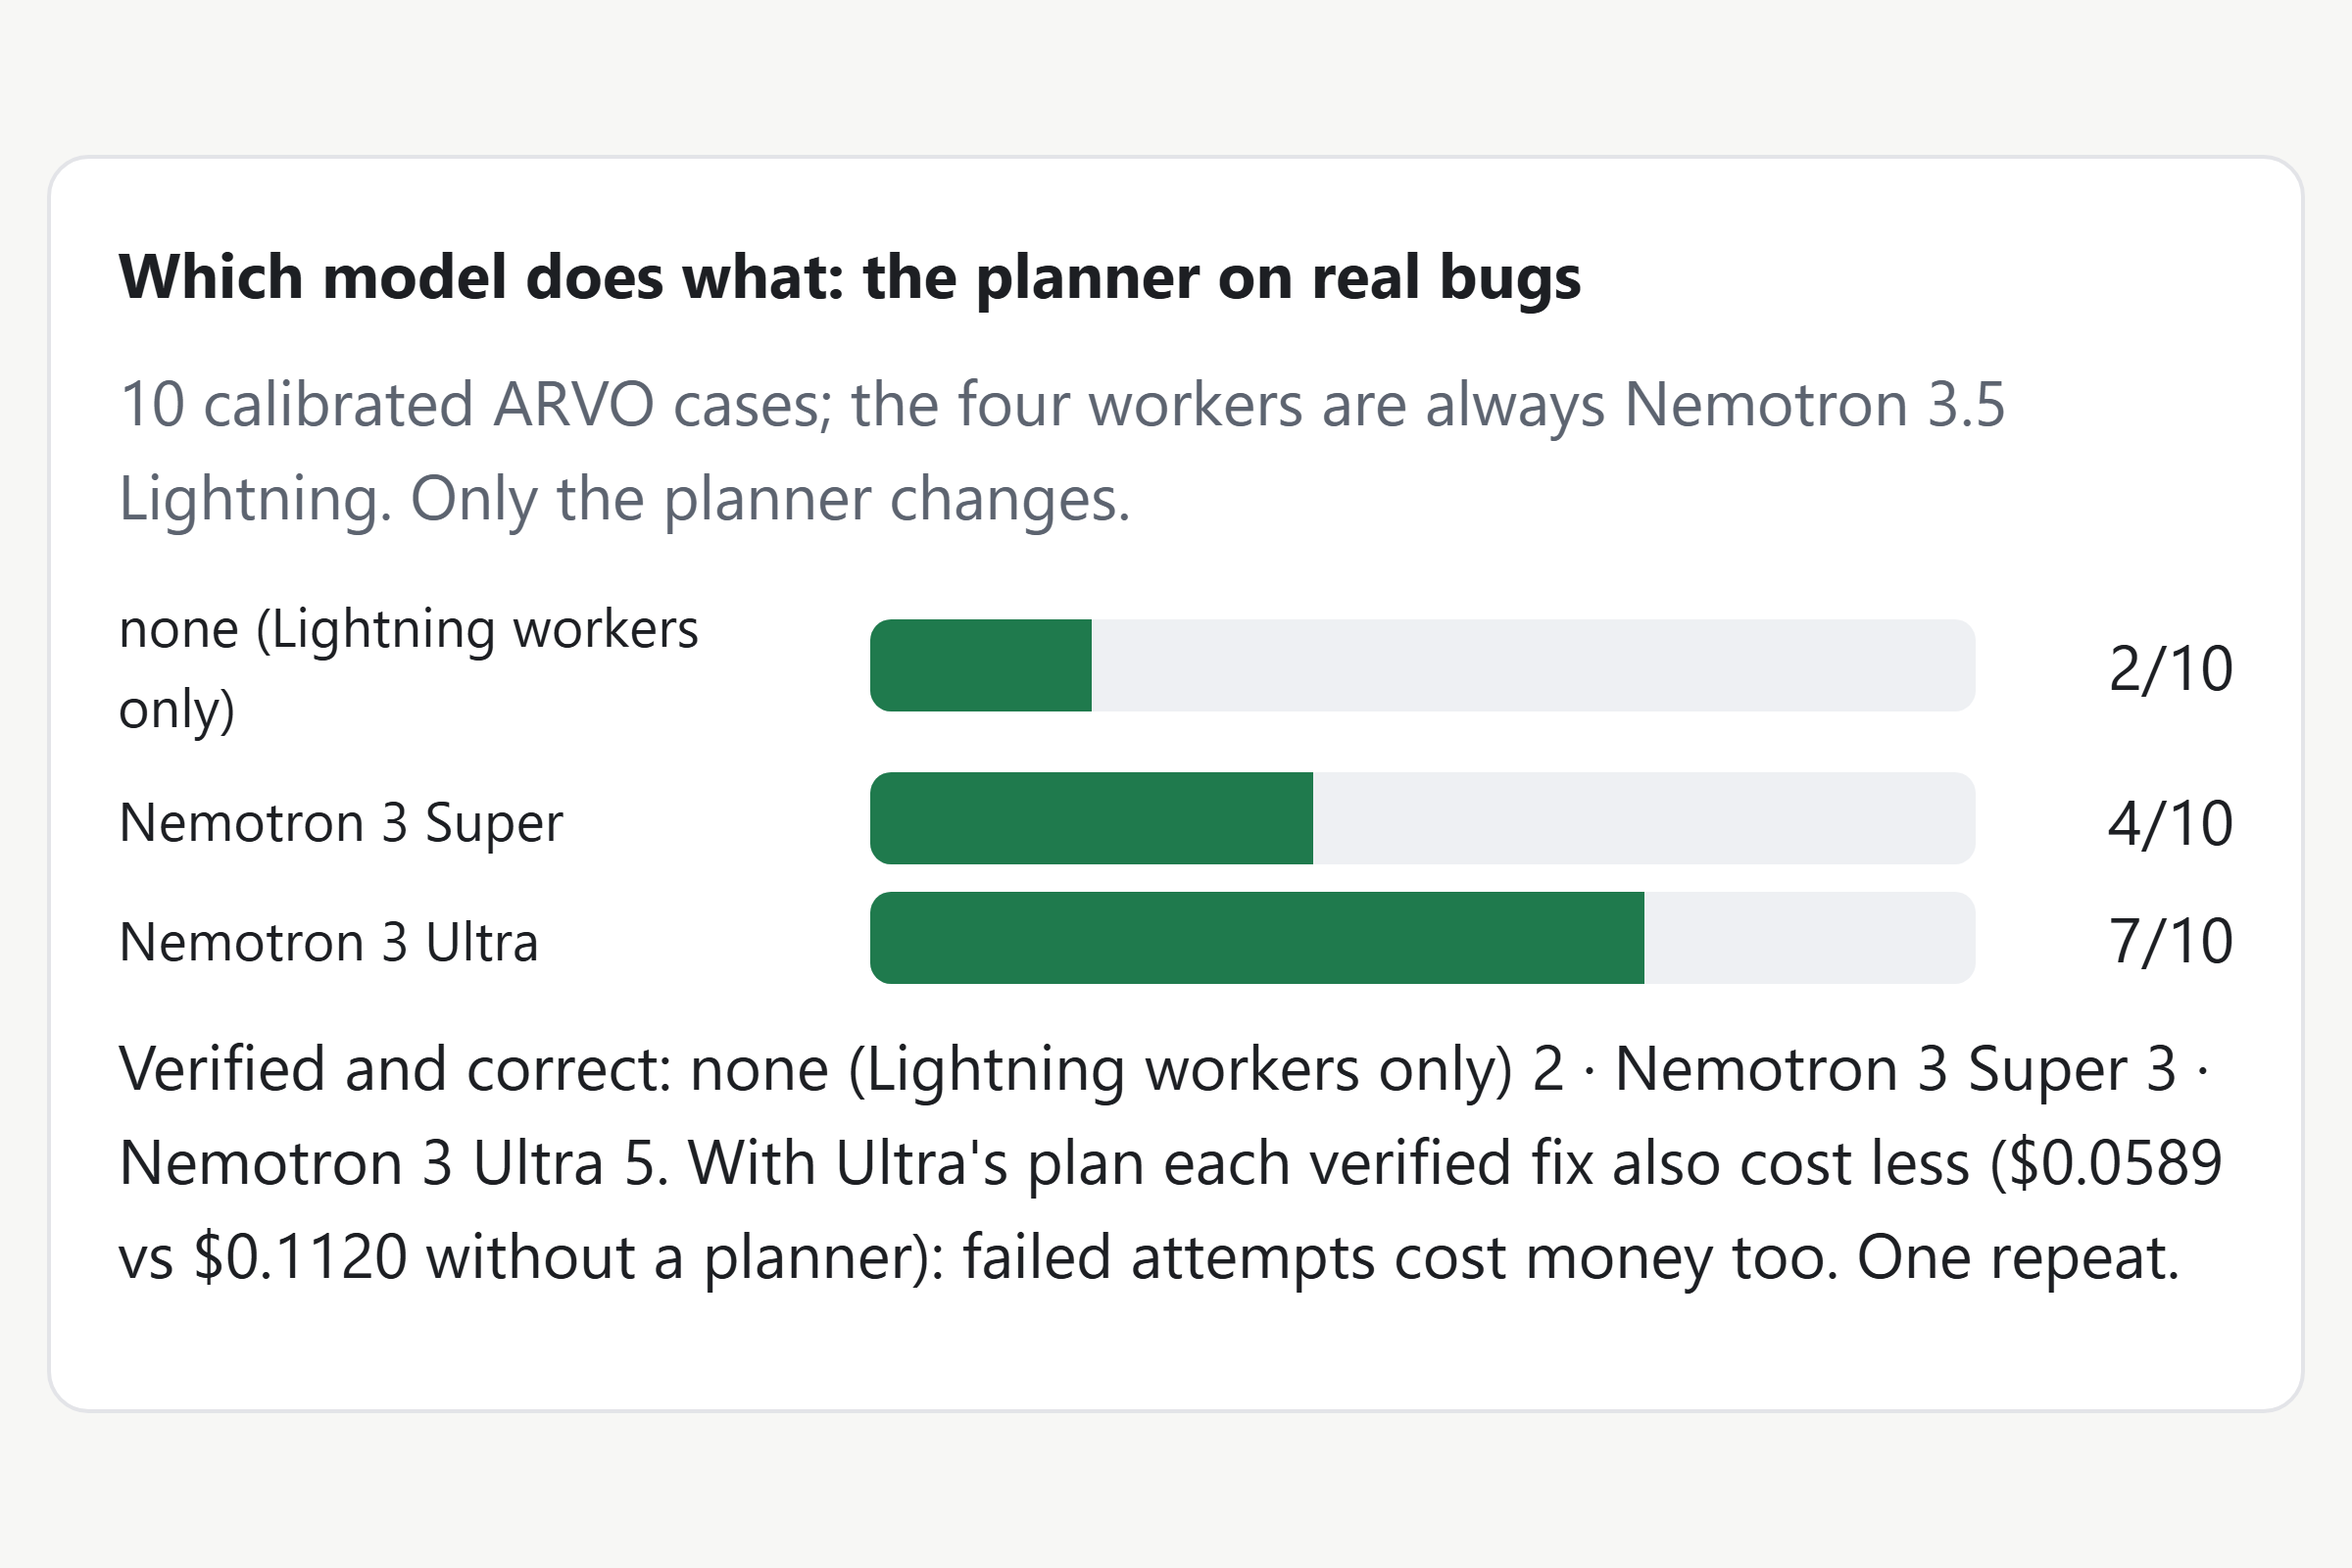
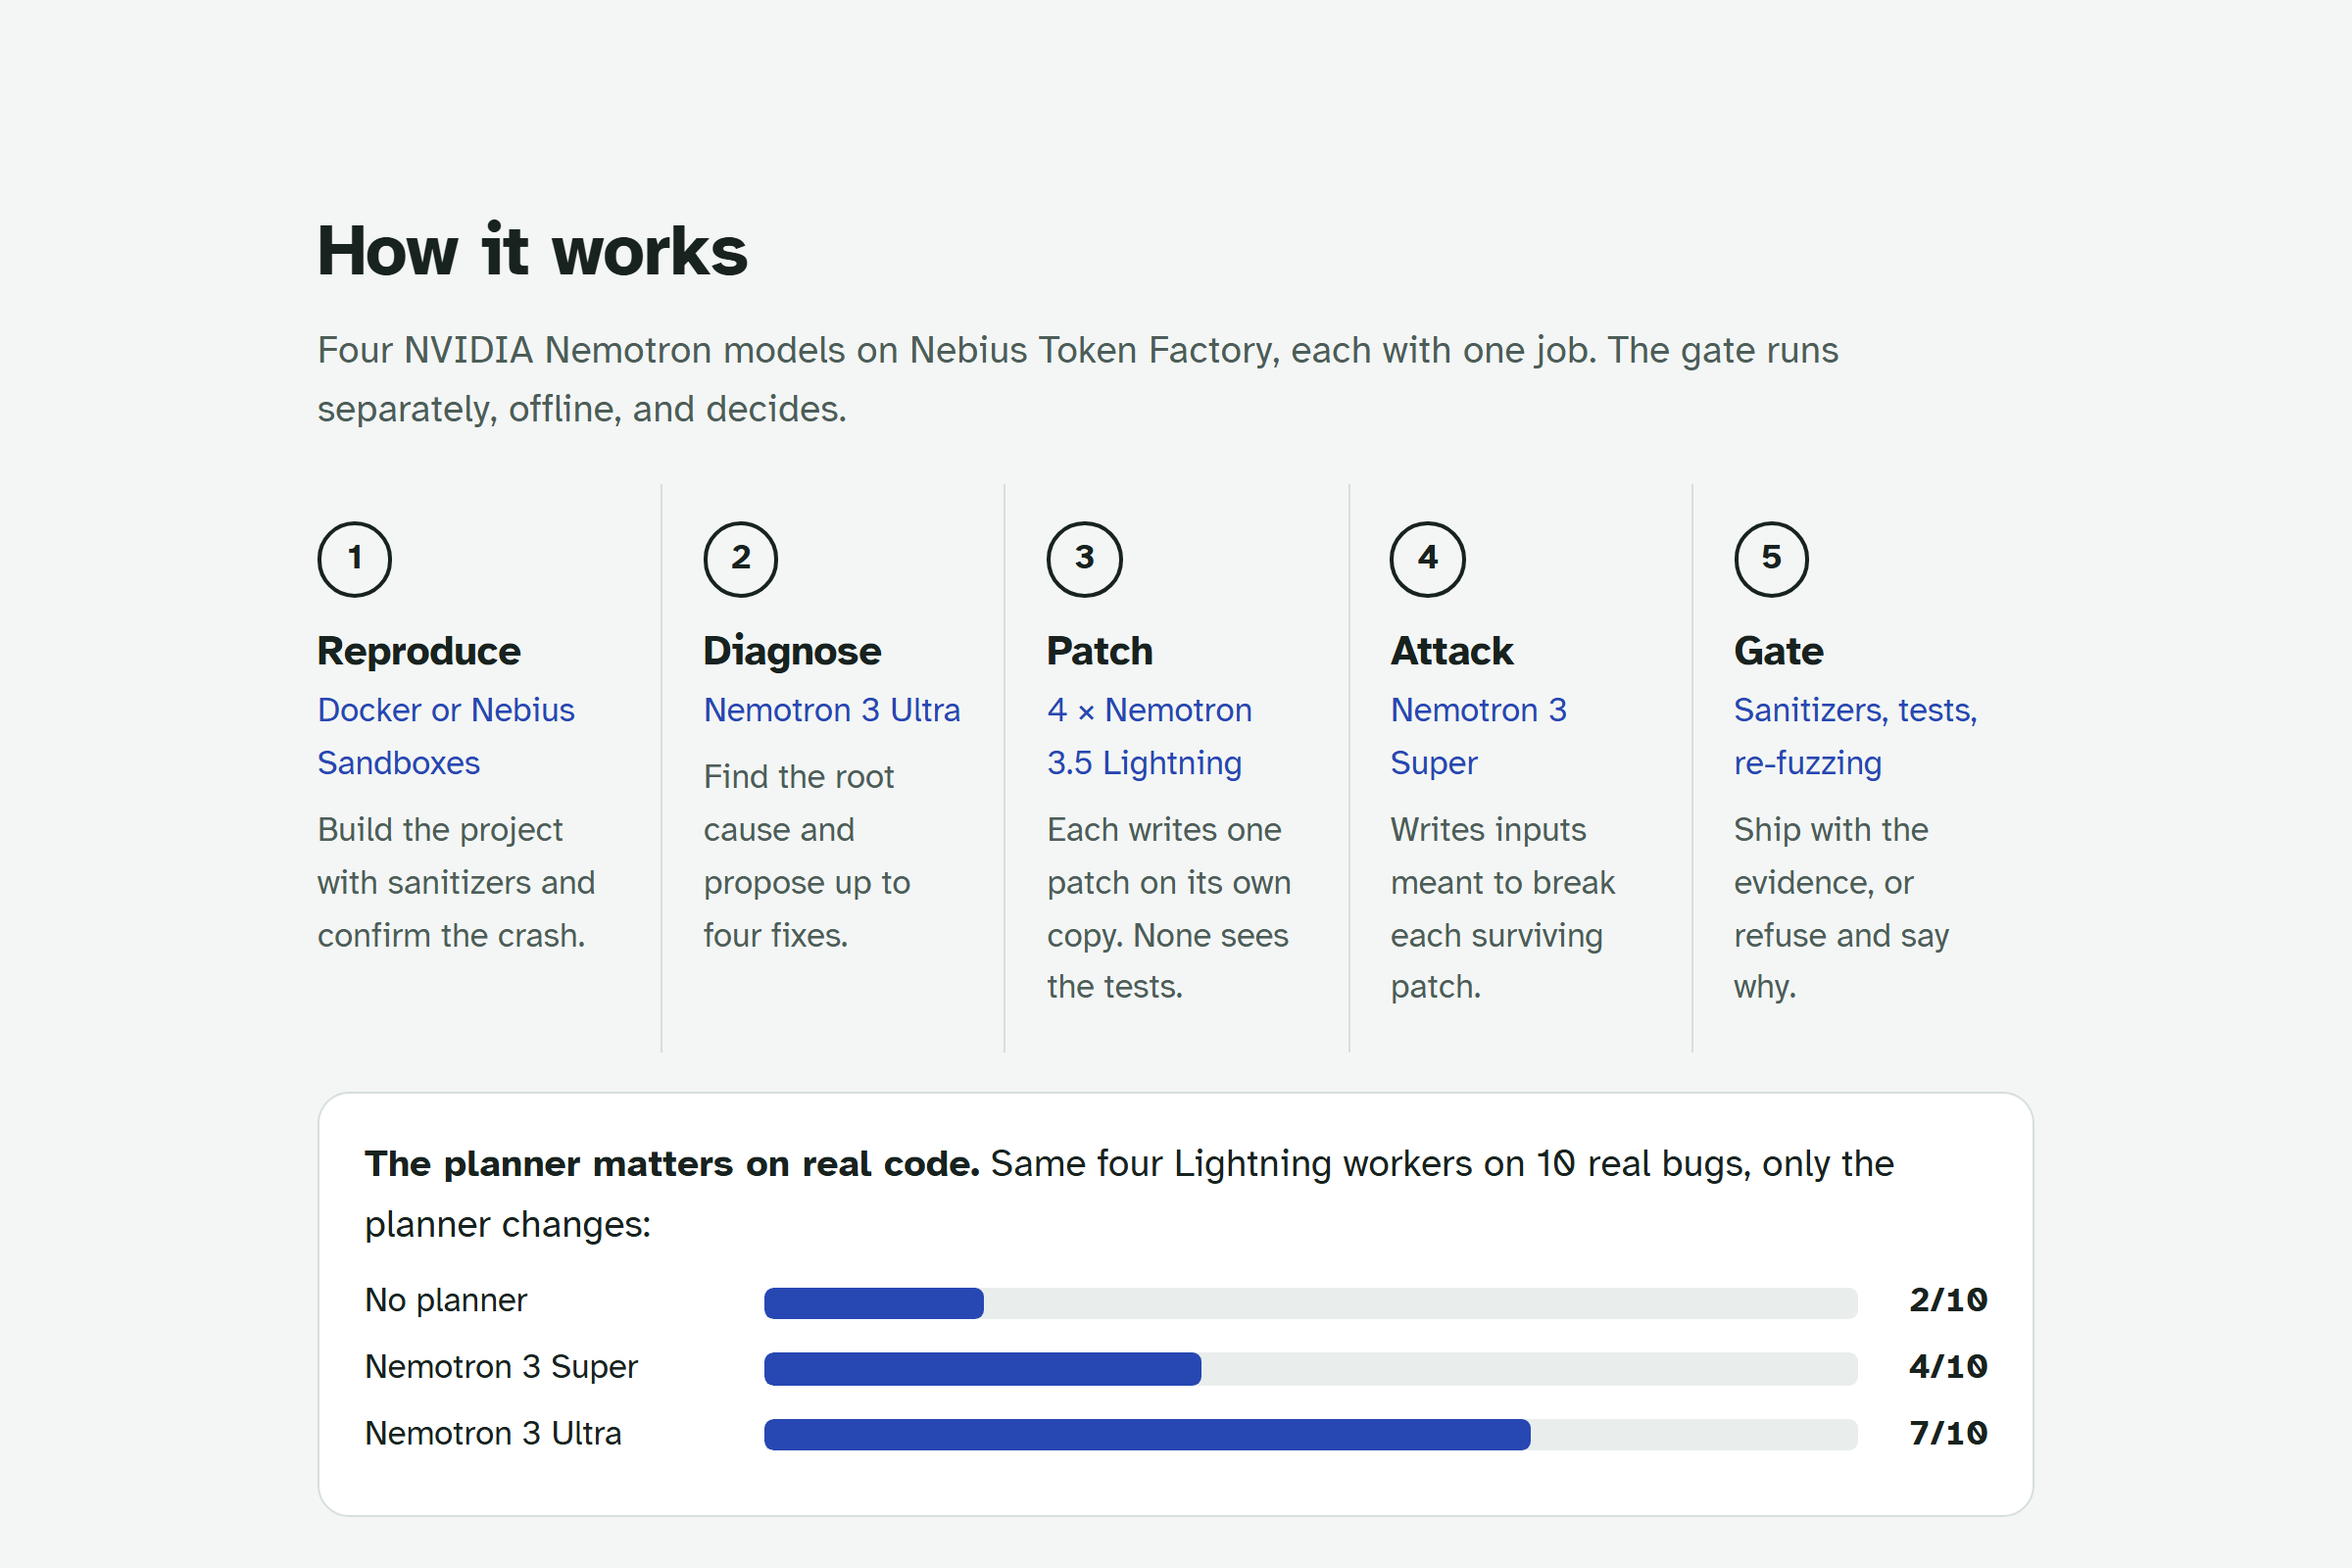
Gallery re-rendered from the new dashboard: head-to-head, 1440 and 390 px

diff --git a/docs/devpost/render_assets.py b/docs/devpost/render_assets.py
@@ -1,8 +1,8 @@
 #!/usr/bin/env python3
 """Devpost images (review #7 order 3), all 3:2 at 2x, rendered from site/ and docs/.
 
-docs/devpost/render_assets.py -> docs/devpost/{thumbnail,1_first_screen,2_jq_refusal,3_funnel,
-                                 4_planner,5_gate_matrix,6_review_findings,architecture}.png
+docs/devpost/render_assets.py -> docs/devpost/{thumbnail,1_first_screen,2_jq_refusal,3_head_to_head,
+                                 4_planner,5_gate_matrix,7_phone_390,architecture}.png
 
 Numbers on the images come from site/data (generated by scripts/readme_numbers.py), never typed.
 Needs Playwright with Chromium in the Windows venv.
@@ -35,25 +35,7 @@ ISOLATE = """([sel, width]) => {
   stage.style.zoom = Math.min(innerWidth * 0.96 / width, innerHeight * 0.96 / stage.offsetHeight);
 }"""
 
-# Image 6: the review-finding table from cases/open_bugs/REVIEW.md, as a dashboard-styled card.
-FINDINGS = r"""(rows) => {
-  const box = document.createElement('div'); box.id = 'findings'; box.className = 'panel';
-  const cell = (s) => s.replace(/\*\*(.+?)\*\*/g, '<b>$1</b>');
-  box.innerHTML = `<h3>Wrong fixes a human review found on open bugs: caught by a machine check?</h3>
-    <p class="muted">Every distinct verified diff, re-gated with inputs generated from the PoC (D-0078) and inputs an adversary model wrote against it (D-0079).</p>
-    <table class="matrix"><tr>${rows[0].map((h) => `<th>${h}</th>`).join('')}</tr>
-    ${rows.slice(1).map((r) => `<tr>${r.map((c) => `<td>${cell(c)}</td>`).join('')}</tr>`).join('')}</table>`;
-  document.querySelector('main').append(box);
-}"""
-
-
-def findings_rows() -> list[list[str]]:
-    text = (ROOT / "cases" / "open_bugs" / "REVIEW.md").read_text(encoding="utf-8")
-    table = text.split("## Review finding", 1)[1].split("\n\n")[2]
-    rows = [
-        [c.strip().replace("`", "") for c in ln.strip("|").split("|")] for ln in table.splitlines()
-    ]
-    return [r for r in rows if not set("".join(r)) <= set("-")]
+# Image 6 (review findings) keeps its last render (Oct 26): it is not a card on the new dashboard.
 
 
 THUMB = """async () => {
@@ -89,59 +71,34 @@ def main() -> int:
 
         def load() -> None:
             page.goto(site)
-            page.wait_for_selector("#headline .stat")
+            page.wait_for_selector("#waffle .tile")
             page.wait_for_selector("#cases button")
-            page.wait_for_timeout(400)
+            page.wait_for_timeout(500)
 
-        # First screen at a narrower viewport (bigger text), without the not-deployed note.
-        page.set_viewport_size({"width": 960, "height": 640})
+        # First screen at 1440 wide (3:2), and the phone layout at 390 (review #22).
+        page.set_viewport_size({"width": 1440, "height": 960})
         load()
-        page.evaluate(
-            "document.querySelectorAll('.muted').forEach(e => "
-            "{ if (e.textContent.includes('not deployed')) e.remove(); })"
-        )
-        page.screenshot(path=str(OUT / "1_first_screen.png"), scale="device")
+        page.screenshot(path=str(OUT / "1_first_screen.png"), scale="css")
+        page.set_viewport_size({"width": 390, "height": 844})
+        load()
+        page.screenshot(path=str(OUT / "7_phone_390.png"))
         page.set_viewport_size({"width": VW, "height": VH})
-        for name, sel, width in (("2_jq_refusal", "#refusal", 700), ("4_planner", "#planner", 540)):
+        # The story: the waffle of 78 patches and the head-to-head under it.
+        load()
+        page.evaluate(ISOLATE, [".verdicts", 760])
+        page.screenshot(path=str(OUT / "3_head_to_head.png"))
+        for name, sel, width in (("2_jq_refusal", "#refusal-sec", 700), ("4_planner", "#how", 760)):
             load()
             page.evaluate(ISOLATE, [sel, width])
             page.screenshot(path=str(OUT / f"{name}.png"))
-        load()
-        page.evaluate("document.querySelector('#funnel').closest('.panel').id = 'funnel-panel'")
-        page.evaluate(ISOLATE, ["#funnel-panel", 600])
-        page.screenshot(path=str(OUT / "3_funnel.png"))
         load()
         page.evaluate(
             "[...document.querySelectorAll('#cases button')]"
             ".find(b => b.textContent.includes('42531297')).click()"
         )
-        page.wait_for_selector("#case .matrix")
-        # The matrix with its case header above it; the advisory reviewer-notes column is dropped.
-        page.evaluate(
-            "() => { const panel = document.querySelector('#case .panel');"
-            " const box = document.createElement('div'); box.id = 'matrix'; box.className = 'panel';"
-            " box.append(panel.querySelector('.row').cloneNode(true),"
-            " panel.querySelector('p.muted').cloneNode(true),"
-            " document.querySelector('#case .matrix').closest('.scroll').cloneNode(true));"
-            " box.querySelectorAll('tr').forEach(tr => tr.lastElementChild.remove());"
-            " document.querySelector('main').append(box); }"
-        )
-        # Transposed (checks as rows, workers as columns) so it fills the 3:2 canvas.
-        page.evaluate(
-            "() => { const t = document.querySelector('#matrix table');"
-            " const rows = [...t.rows].map(r => [...r.cells]);"
-            " const out = document.createElement('table'); out.className = t.className;"
-            " rows[0].forEach((_, j) => { const tr = out.insertRow();"
-            " rows.forEach((r, i) => { const c = document.createElement(i && j ? 'td' : 'th');"
-            " c.innerHTML = r[j].innerHTML; tr.append(c); }); });"
-            " t.replaceWith(out); }"
-        )
-        page.evaluate(ISOLATE, ["#matrix", 640])
+        page.wait_for_timeout(400)
+        page.evaluate(ISOLATE, ["#case", 760])
         page.screenshot(path=str(OUT / "5_gate_matrix.png"))
-        load()
-        page.evaluate(FINDINGS, findings_rows())
-        page.evaluate(ISOLATE, ["#findings", 900])
-        page.screenshot(path=str(OUT / "6_review_findings.png"))
         load()
         page.evaluate(THUMB)
         page.wait_for_timeout(300)

diff --git a/docs/DEVPOST.md b/docs/DEVPOST.md
@@ -122,10 +122,11 @@ nvidia-nemotron, nemotron-3-ultra, nemotron-3.5-lightning, nemotron-3-super, nem
 ## Gallery images (rendered by `docs/devpost/render_assets.py`, 3:2 at 2×)
 
 - Thumbnail: `docs/devpost/thumbnail.png` ("15/27 real bugs verified · 14 correct").
-1. `docs/devpost/1_first_screen.png` — the dashboard's first screen.
+1. `docs/devpost/1_first_screen.png` — the dashboard's first screen (1440 px).
 2. `docs/devpost/2_jq_refusal.png` — what a refusal looks like (jq).
-3. `docs/devpost/3_funnel.png` — from "the crash went away" to "verified and correct".
-4. `docs/devpost/4_planner.png` — which model does what: 2 → 4 → 7 of 10.
+3. `docs/devpost/3_head_to_head.png` — the 78 patches that silenced a real OSS-Fuzz crash, and the head-to-head: "crash is gone" ships 21 bad ones, Leakproof 4; with the project's tests (49), 10 vs 3.
+4. `docs/devpost/4_planner.png` — how it works: which model does what, and the planner bars (2 → 4 → 7 of 10).
 5. `docs/devpost/5_gate_matrix.png` — every check, every candidate (jq 42531297: one candidate verified, two refused because re-fuzzing the amplified PoC found a new crash).
 6. `docs/devpost/6_review_findings.png` — wrong fixes a human review found on open bugs, and which machine check now catches them (2 of 5: generated inputs and the adversary; D-0078, D-0079).
+7. `docs/devpost/7_phone_390.png` — the dashboard on a phone (390 px).
 - Architecture: `docs/devpost/architecture.png`.

diff --git a/docs/SUBMISSION_CHECKLIST.md b/docs/SUBMISSION_CHECKLIST.md
@@ -53,7 +53,7 @@ git add -A && git commit -m "Links: video" && git push
 | Built with | the "## Built with" line (comma-separated tags) |
 | "Try it out" links | repository URL, dashboard URL |
 | Video demo link | the YouTube URL from (f) |
-| Image gallery | thumbnail first (`docs/devpost/thumbnail.png`), then images 1–6 and `architecture.png`, in the order listed under "## Gallery images" |
+| Image gallery | thumbnail first (`docs/devpost/thumbnail.png`), then images 1–7 and `architecture.png`, in the order listed under "## Gallery images" |
 | Feedback question | the "## Feedback for Nebius and NVIDIA" section (full version: `docs/FEEDBACK.md`) |
 | Repository | github.com/samsundar989/nebius-hackathon |
 
